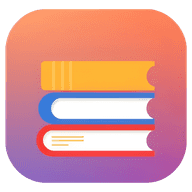
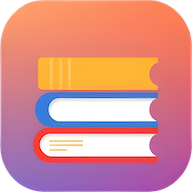
update pwa styling

Changed region(s): [[0.1562, 0.2812, 0.8438, 0.875], [0.0, 0.0, 1.0, 1.0]]

diff --git a/nuxt.config.ts b/nuxt.config.ts
@@ -5,7 +5,7 @@ export default defineNuxtConfig({
     head: {
       charset: 'utf-8',
       viewport: 'width=device-width, initial-scale=1, maximum-scale=1, viewport-fit=cover',
-      title: 'Stacks Rank'
+      title: 'Stacks Rank',
     }
   },
   ssr: false,
@@ -48,7 +48,7 @@ export default defineNuxtConfig({
       short_name:'Stacks Rank',
       description:'Rank your books',
       display: "standalone",
-      theme_color: "#000000",
+      theme_color: "#ffffff",
       background_color: "#ffffff",
       lang:'en',
       orientation:'portrait',
